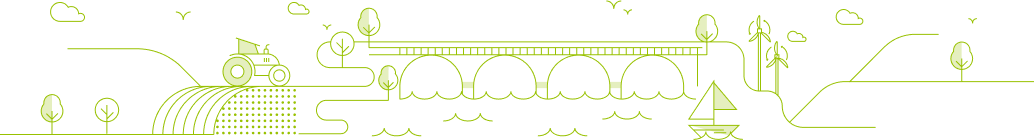
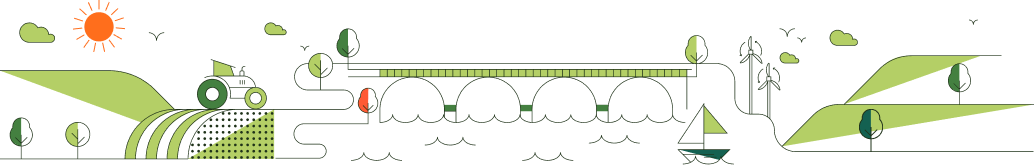
add colorpalette and design

diff --git a/css/main.css b/css/main.css
@@ -1,22 +1,47 @@
 .illustration {
-    background-image: url(../pics/illustration_bridge.png);
+    background-color: #FCF8A1;
+    background-image: url('../pics/illustration_bridge.png');
     background-size: 100% 100%;
+    background-repeat: no-repeat;
 }
 
 .header-height {
-    height: 135px;
+    height: 165px;
+    margin-top: 0 !important;
+    position: relative;
+}
+
+@media (min-width: 1200px) {
+    .header-height {
+        height: 210px;
+    }
+    .illustration {
+        background-size: 100% 210px;
+    }
 }
 
 .title-color {
     color: #005B52 !important;
 }
 
-.carbon-emission-card {
-    background-color: #005C53;
+.title-position {
+    position: absolute;
+    top: 30%;
+    left: 50%;
+    transform: translate(-50%, -50%);
+
 }
 
-.power-emission-card {
-    background-color: #D6D58E;
+.carbon-emission-card {
+    background-color: #BBDA50;
+}
+
+.monthly-emission-card {
+    background-color: #145161;
+}
+
+.percent-color {
+    color: #BBDA50;
 }
 
 

diff --git a/js/main.js b/js/main.js
@@ -5,8 +5,9 @@ window.ApexCharts = ApexCharts;
 
 // Import images paths :
 require('../pics/illustration_bridge.png');
-require('../pics/carbonemissionicon.png');
-require('../pics/powerconsumptionicon.png');
+require('../pics/carbon_emission_icon_darkgreen.png');
+require('../pics/carbon_emission_icon_white.png');
+require('../pics/ecology_icon_orange.png');
 
 // Import css :
 require('../css/main.css');

diff --git a/webpack.config.js b/webpack.config.js
@@ -3,7 +3,7 @@ const path = require('path');
 const MiniCssExtractPlugin = require('mini-css-extract-plugin');
 
 module.exports = {
-    // watch: true,
+    watch: true,
     plugins: [new MiniCssExtractPlugin()],
     entry: path.resolve(__dirname, './js/main.js'),
     mode: 'production',
